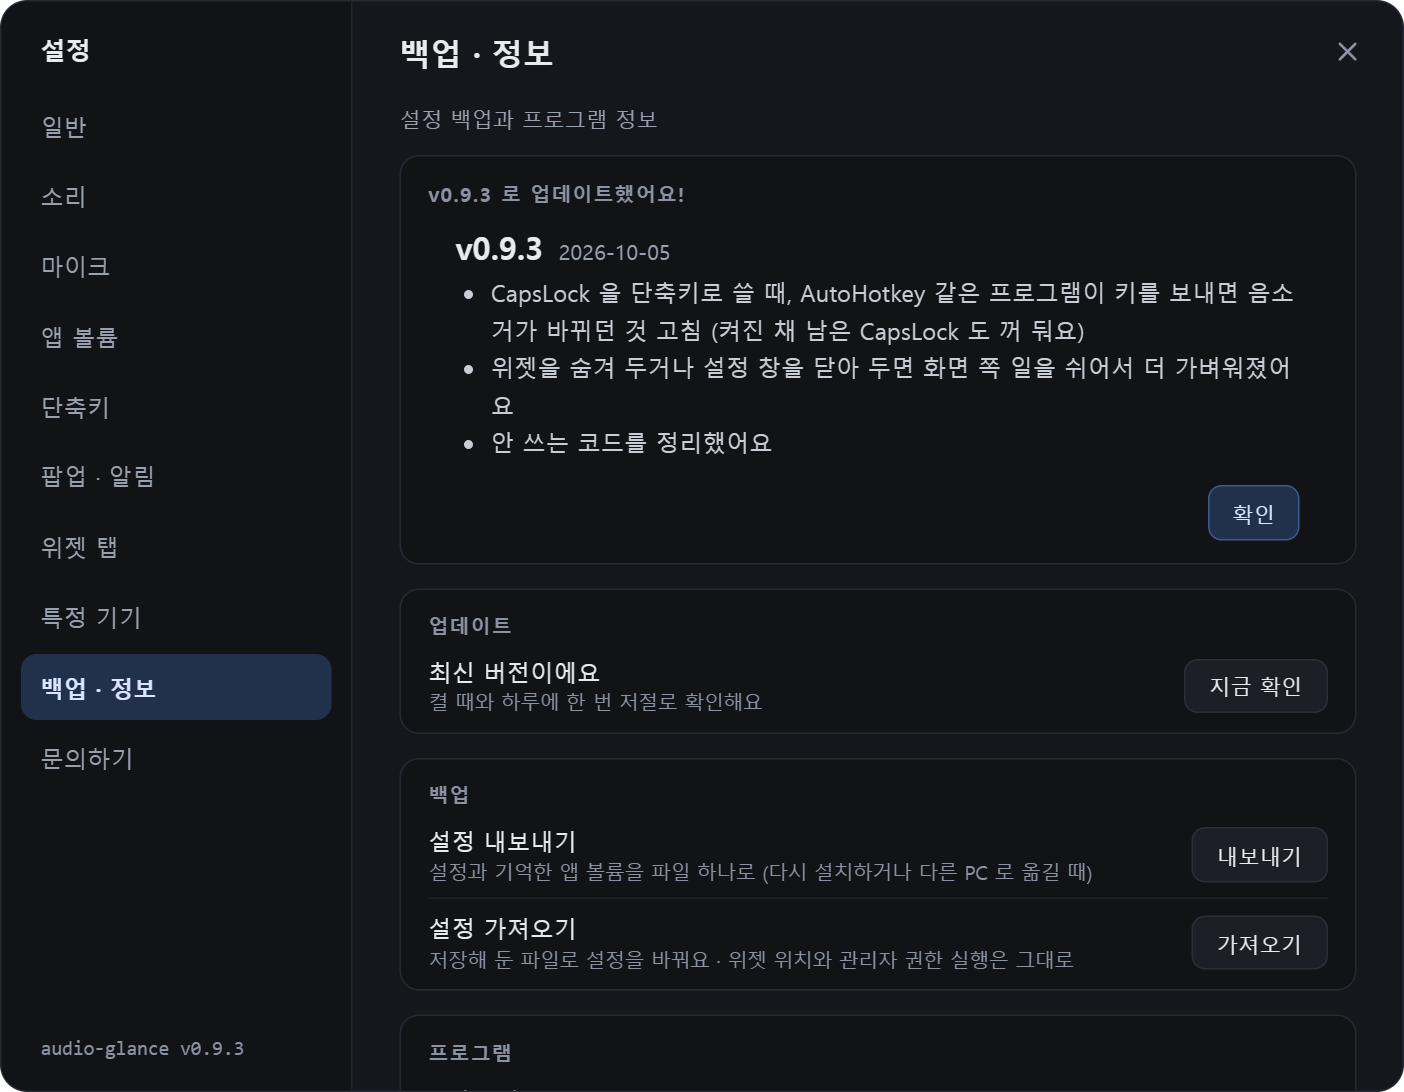
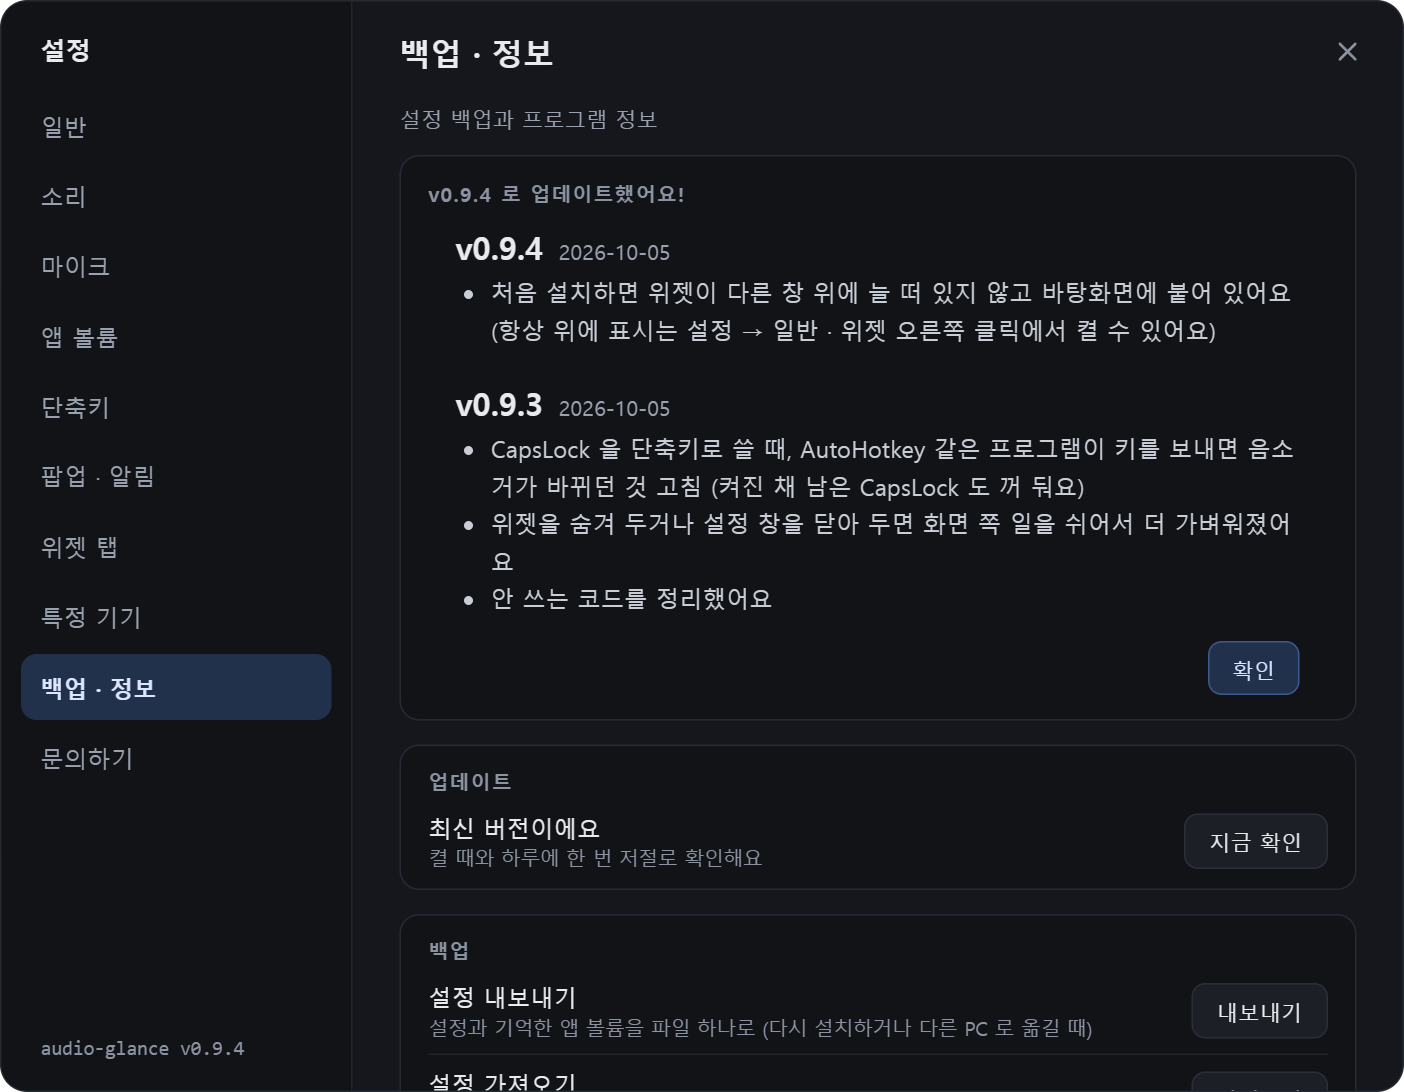
소개 페이지: 0.9.4 사진 (항상 위 꺼짐이 기본), 처음 위젯 자리 안내

diff --git a/README.md b/README.md
@@ -95,7 +95,7 @@
   </tr>
   <tr>
     <td align="center"><img src="images/settings.png" alt="설정 → 일반: 실행 · 위젯 · 설정 창 크기"></td>
-    <td align="center"><img src="images/update.png" alt="업데이트하고 처음 켰을 때 'v0.9.3 로 업데이트했어요!' 카드"></td>
+    <td align="center"><img src="images/update.png" alt="업데이트하고 처음 켰을 때 'v0.9.4 로 업데이트했어요!' 카드"></td>
   </tr>
   <tr>
     <td align="center"><b>설정</b><br>바꾸면 바로 적용 · 메뉴 10개</td>
@@ -121,6 +121,7 @@
 - 관리자 권한 없이 **내 계정에만** 설치돼요.
 - 필요한 것: Windows 10 / 11 (64비트)
 - 윈도우를 켤 때 같이 켜려면: **설정 → 일반 → 윈도우 시작 시 실행**
+- 처음엔 위젯이 **바탕화면에 붙어** 있어요 (다른 창을 띄우면 그 아래로). 늘 맨 위에 두고 싶으면 위젯 오른쪽 클릭 → **항상 위에 표시**
 - 지우려면: 윈도우 **설정 → 앱 → 설치된 앱 → AudioGlance → 제거**. 자동 실행 · 관리자 실행 등록도 같이 지워져요.
   설정 폴더는 남아 있어서 다시 설치하면 그대로 이어져요 (제거 화면에서 "앱 데이터 삭제"를 고르면 같이 지워요).
 
